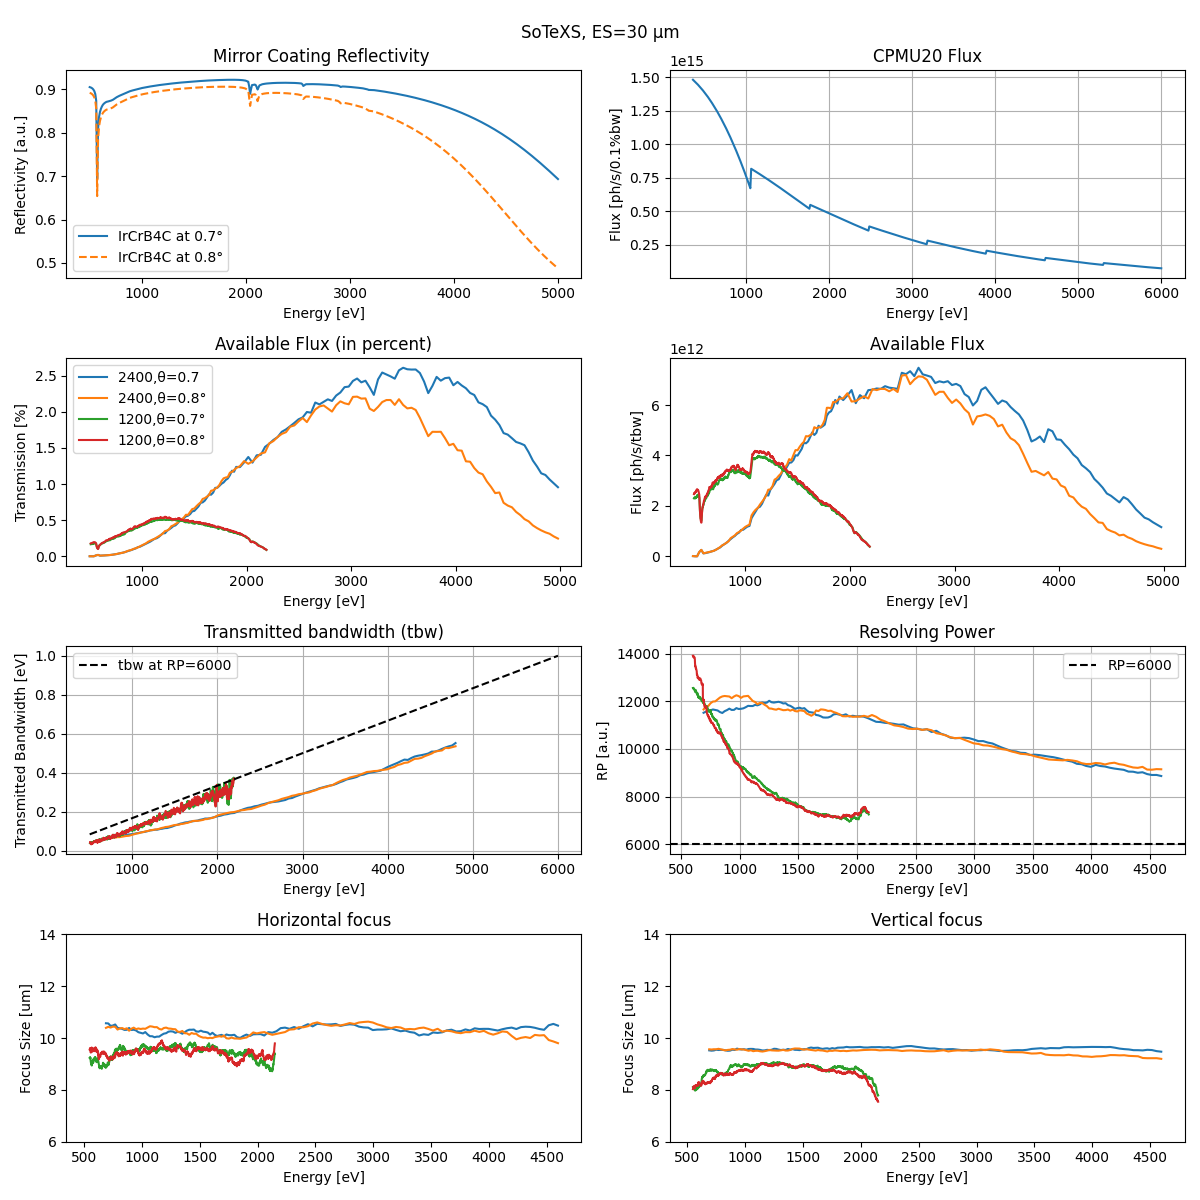
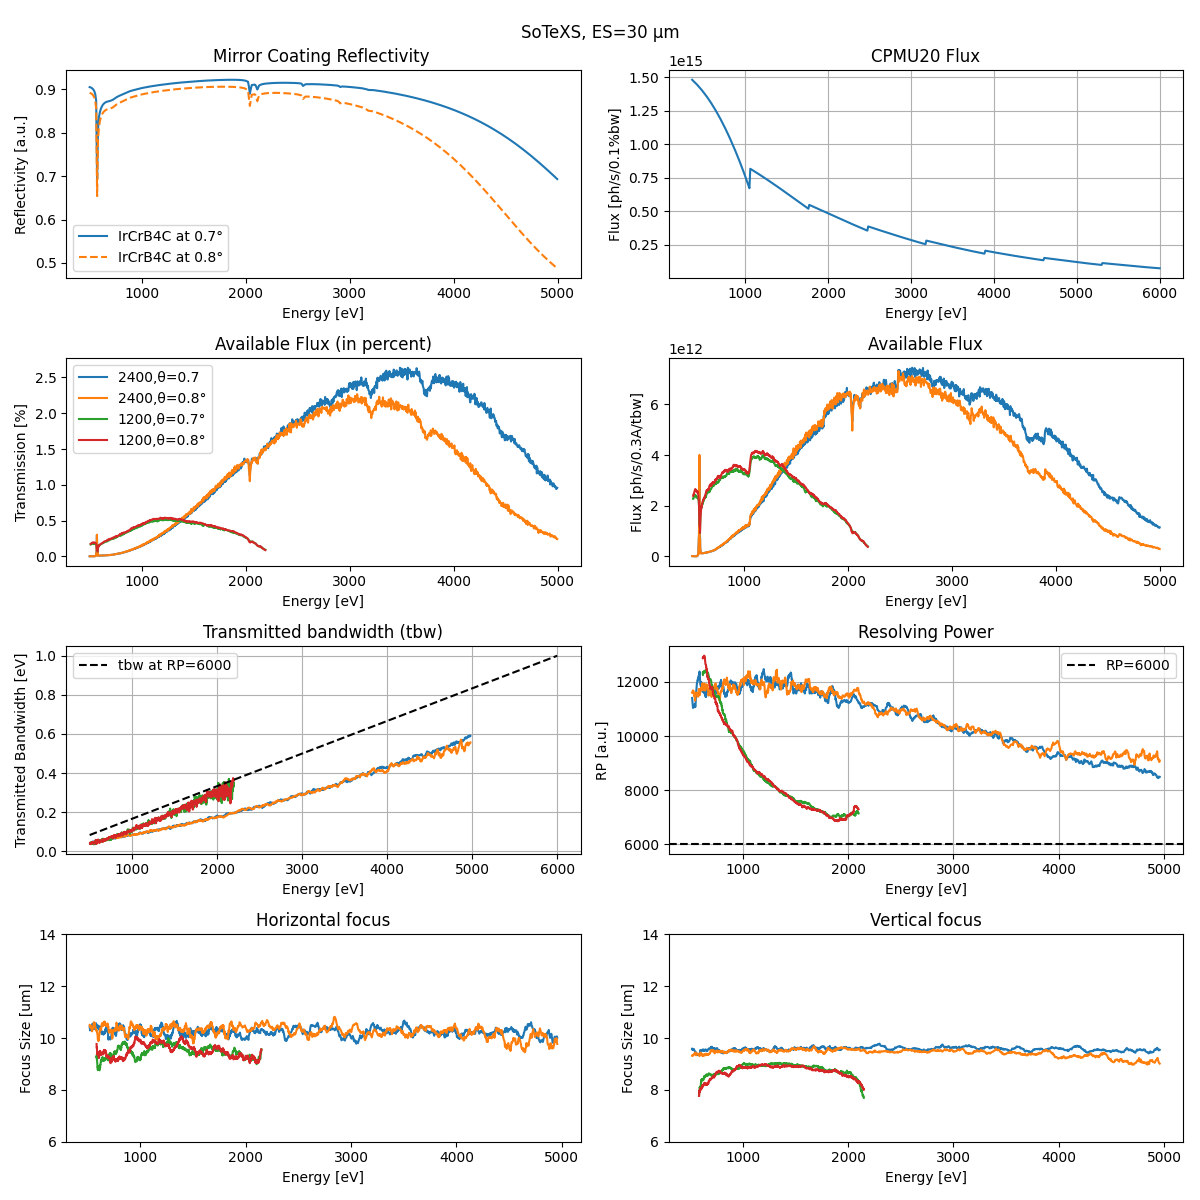
eval, prepare sim

diff --git a/simulation/12/eval_compare.py b/simulation/12/eval_compare.py
@@ -137,7 +137,7 @@ ax.legend()
 ax2.set_title('Available Flux')
 ax2.set_xlabel(r'Energy [eV]')
 ax.grid(which='both', axis='both')
-ax2.set_ylabel('Flux [ph/s/tbw]')
+ax2.set_ylabel('Flux [ph/s/0.3A/tbw]')
 # ax2.set_yscale('log')
 # ax2.set_ylim(10e9, 10e13)
 
@@ -346,3 +346,49 @@ ax.legend()
 plt.suptitle('SoTeXS, ES=30 µm')
 plt.tight_layout()
 plt.savefig('plot/SoTeXS-compare-07-08_multilayer_efficiency.png')
+
+
+# Flux Density
+fig, (ax) = plt.subplots(1, 1,figsize=(12,12))
+for ind, es in enumerate(exit_slit_list):
+    # 2400
+    window = 50
+
+    filtered_flux = flux07[flux07['ExitSlit.openingHeight'] == es]
+    energy = filtered_flux['CPMU20.photonEnergy']
+    abs_flux = filtered_flux['PhotonFlux1']
+    foc_area = (filtered_flux['VerticalFocusFWHM']*filtered_flux['HorizontalFocusFWHM'])*1000  # in µm²
+    flux_density = abs_flux / foc_area
+    ax.plot(p.moving_average(energy, window),p.moving_average(flux_density, window), label=f'2400,θ=0.7')
+
+    filtered_flux = flux08[flux08['ExitSlit.openingHeight'] == es]
+    energy = filtered_flux['CPMU20.photonEnergy']
+    abs_flux = filtered_flux['PhotonFlux1']
+    foc_area = (filtered_flux['VerticalFocusFWHM']*filtered_flux['HorizontalFocusFWHM'])*1000  # in µm²
+    flux_density = abs_flux / foc_area
+    ax.plot(p.moving_average(energy, window),p.moving_average(flux_density, window), label=f'2400,θ=0.8')
+
+    # 1200
+    filtered_flux = flux07_1200[flux07_1200['ExitSlit.openingHeight'] == es]
+    energy = filtered_flux['CPMU20.photonEnergy']
+    abs_flux = filtered_flux['PhotonFlux1']
+    foc_area = (filtered_flux['VerticalFocusFWHM']*filtered_flux['HorizontalFocusFWHM'])*1000  # in µm²
+    flux_density = abs_flux / foc_area
+    ax.plot(p.moving_average(energy, window),p.moving_average(flux_density, window), label=f'1200,θ=0.7')
+
+    filtered_flux = flux08_1200[flux08_1200['ExitSlit.openingHeight'] == es]
+    energy = filtered_flux['CPMU20.photonEnergy']
+    abs_flux = filtered_flux['PhotonFlux1']
+    foc_area = (filtered_flux['VerticalFocusFWHM']*filtered_flux['HorizontalFocusFWHM'])*1000  # in µm²
+    flux_density = abs_flux / foc_area
+    ax.plot(p.moving_average(energy, window),p.moving_average(flux_density, window), label=f'1200,θ=0.8')
+
+ax.set_xlabel(f'Energy [eV]')
+ax.set_ylabel('Flux Density [ph/s/0.3A/tbw/µm²]')
+ax.set_title('Available Flux (in percent)')
+ax.grid(which='both', axis='both')
+ax.legend()
+
+plt.suptitle('SoTeXS, ES=30 µm')
+plt.tight_layout()
+plt.savefig('plot/SoTeXS-compare-07-08_flux_density.png')

diff --git a/simulation/12/params.py b/simulation/12/params.py
@@ -5,7 +5,7 @@ import pandas as pd
 rounds_1200 = 1
 rounds_ml   = 1
 ncpu        = 30
-nrays       = 1e5
+nrays       = 5e5
 
 #   PARAMS FOR 1200l/mm GRATING SIMULATIONS
 hb_1200_order       = 1
